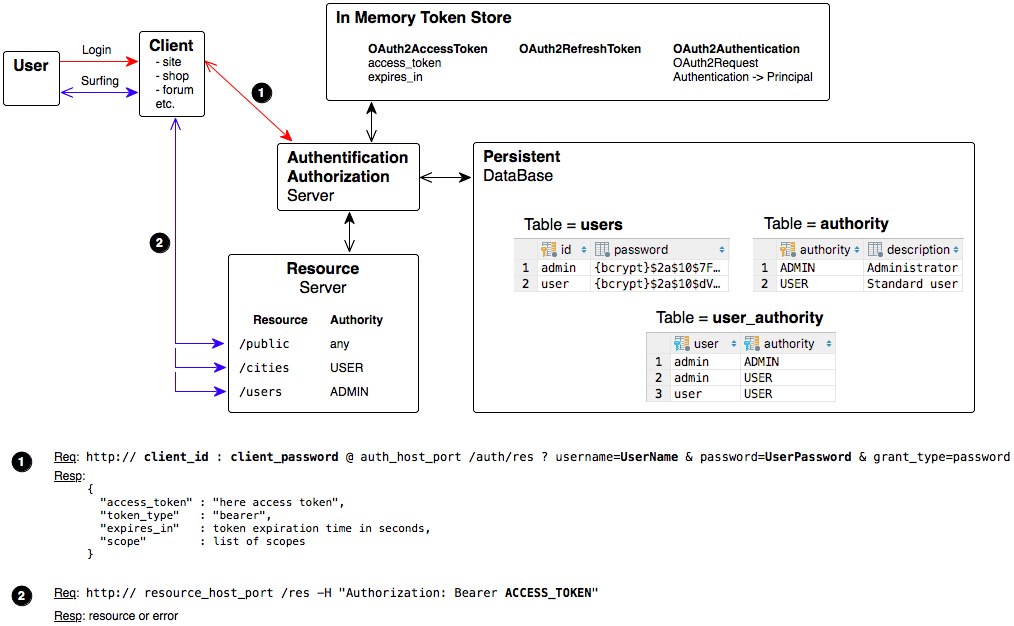
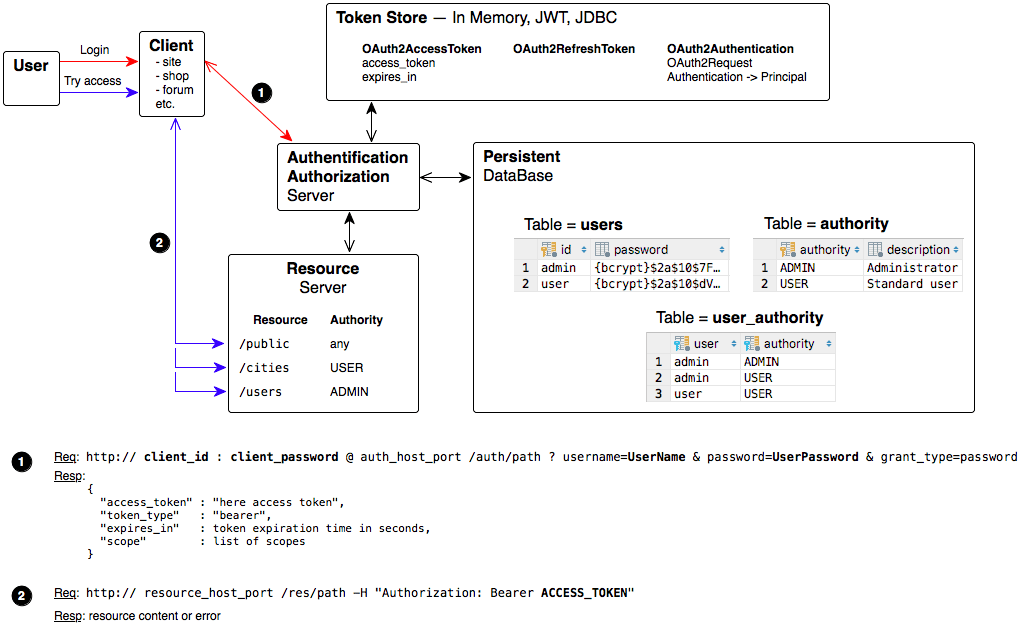
logging

diff --git a/README.md b/README.md
@@ -12,7 +12,7 @@ Java 9, Spring Boot 2, OAuth 2
 See `test\java\ru.dwfe.authtion` classes.
 ### BasicRun
 1. Login: `user`, `admin`
-2. Surfing `user`, `admin`, `not loged user` for resources: `/public`, `/cities`, `/users`
+2. Try to access with `user`, `admin`, `not loged user` for resources: `/public`, `/cities`, `/users`
 
 ![Basic Run](./Authtion_BasicRun.png)
 
